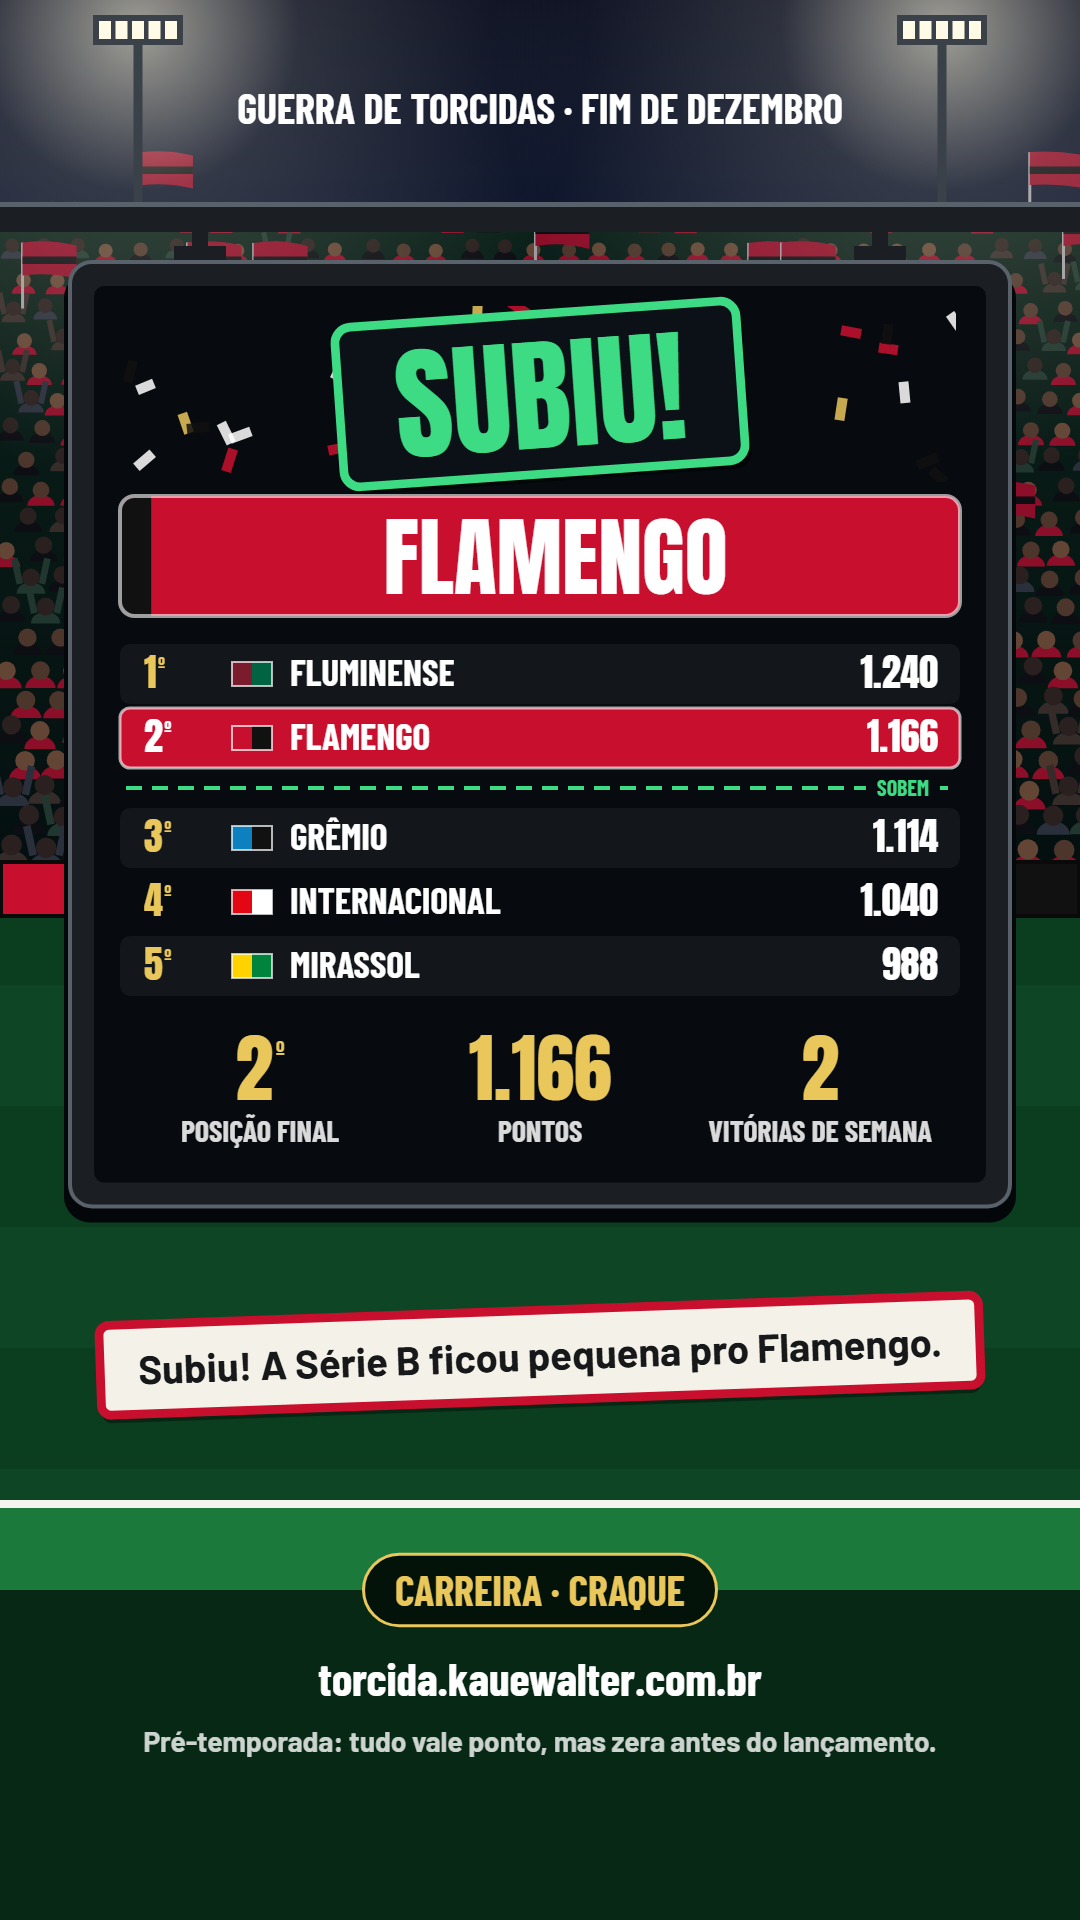
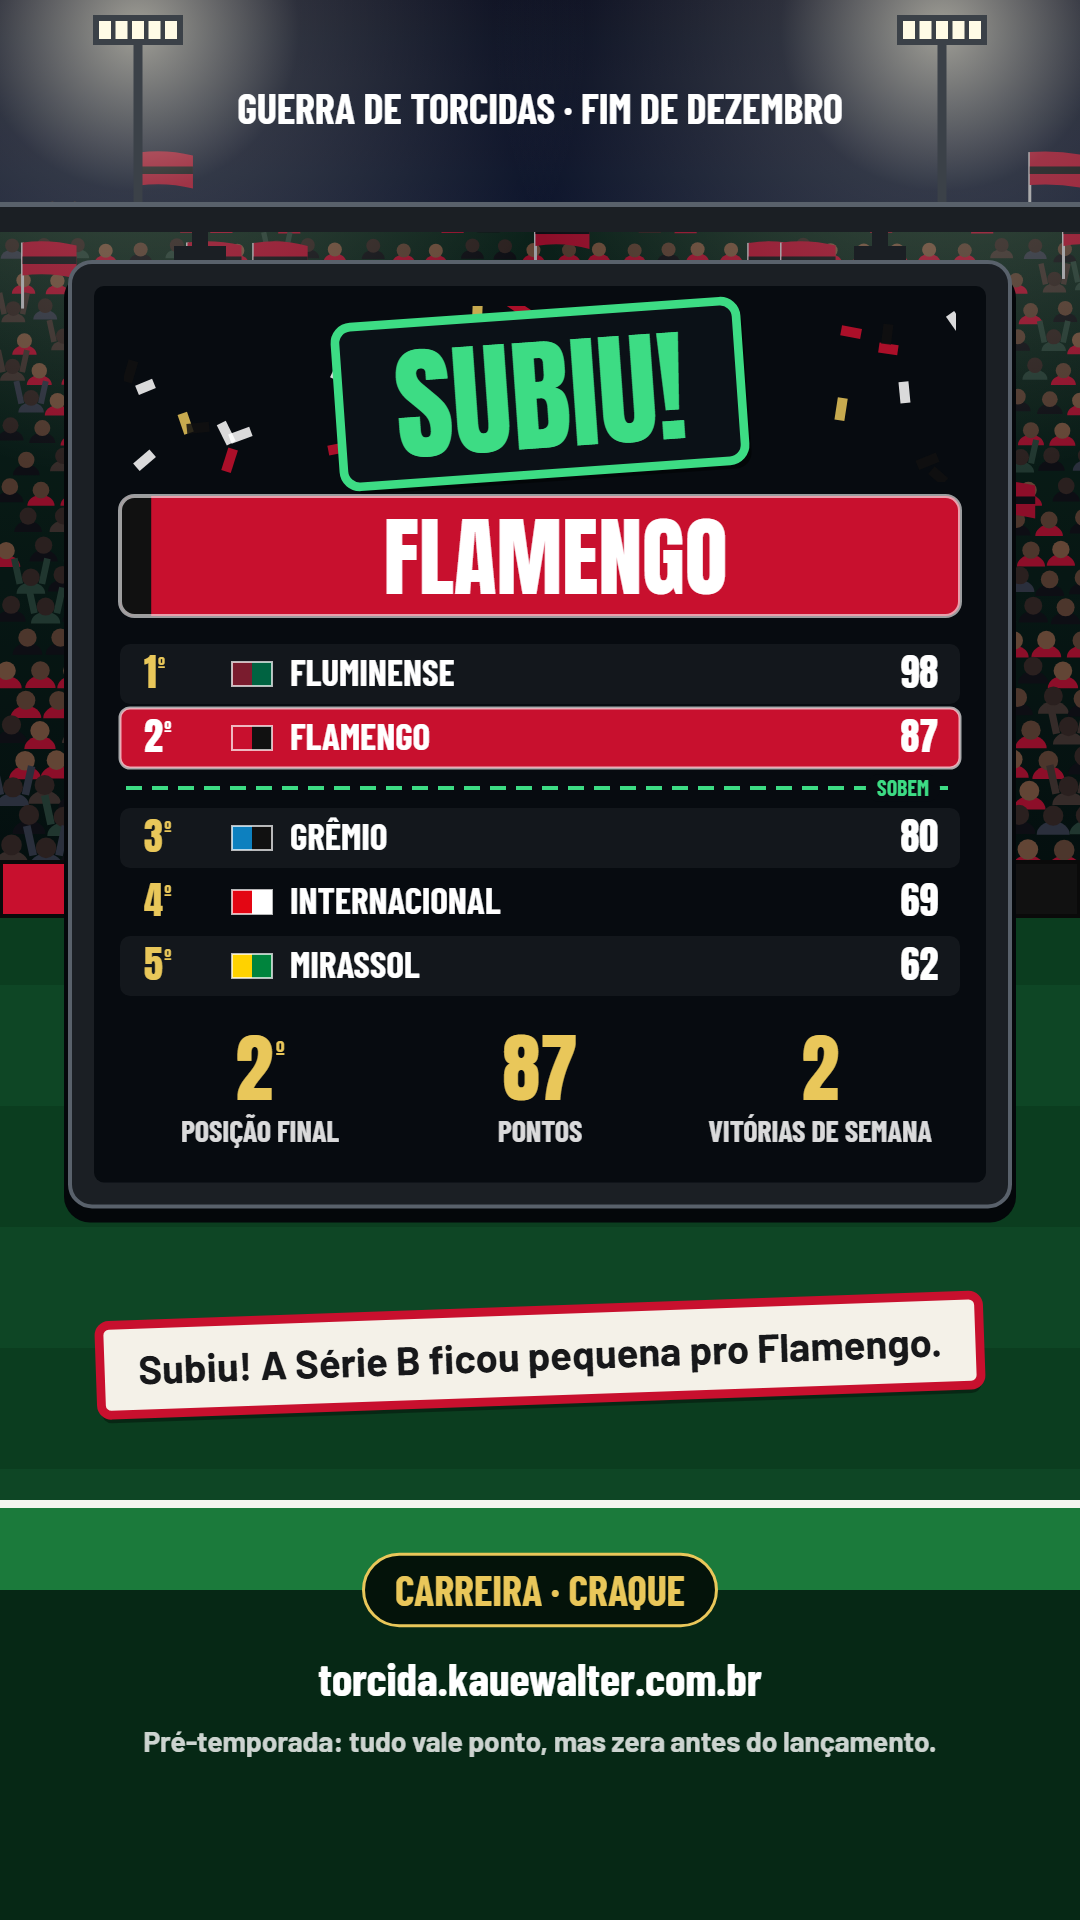
fix: pontos realistas no card falso e docs de como as divisões ficaram nas telas

Changed region(s): [[0.7944, 0.3438, 0.8861, 0.5312], [0.4278, 0.5312, 0.5806, 0.5938]]

diff --git a/src/jogo/cardTemporada.test.ts b/src/jogo/cardTemporada.test.ts
@@ -73,7 +73,7 @@ describe('dados do card de fim de temporada', () => {
     expect(d.tipo).toBe('temporada');
     expect(d.jogo).toBe('FIM DE DEZEMBRO');
     expect(d.destaque).toBe('SUBIU PRA SÉRIE A');
-    expect(d.lance).toBe('O Flamengo terminou em 2º na Série B · 1166 pts · 2 vitórias de semana');
+    expect(d.lance).toBe('O Flamengo terminou em 2º na Série B · 87 pts · 2 vitórias de semana');
     expect(d.link).toBe('torcida.kauewalter.com.br');
   });
 
@@ -168,7 +168,7 @@ describe('plano do card de fim de temporada por estilo', () => {
     expect(ligado.lance).toBe('O Flamengo terminou em 2º na Série B');
     const desligado = plano('placar', SEM_TABELA);
     expect(desligado.temporada?.numeros).toEqual([]);
-    expect(desligado.lance).toContain('1166 pts');
+    expect(desligado.lance).toContain('87 pts');
   });
 
   it('Placar seco e Pôster levam "Teste das divisões" no topo na pré-temporada', () => {

diff --git a/src/dev/temporadaCardFalso.ts b/src/dev/temporadaCardFalso.ts
@@ -51,7 +51,8 @@ export function mesDeAmostra(cenario: CenarioDoMes, time: Time, pre: boolean): {
     time_id: id,
     serie,
     posicao: i + 1,
-    pontos: Math.max(0, 1240 - i * 63 - (i % 2) * 11),
+    // Pontos de verdade num mês: no máximo 5 × 25 = 125.
+    pontos: Math.max(0, 98 - i * (serie === 'unica' ? 4 : 9) - (i % 2) * 2),
     vitorias: i < 3 ? 3 - i : 0,
     ultima_posicao: i + 1,
     posicao_final: i + 1,

diff --git a/docs/jogo.md b/docs/jogo.md
@@ -176,6 +176,8 @@ Uma partida começada antes da virada conta na semana antiga se terminar até 00
     - **Texto de compartilhar** (emoji antigo, link em linha à parte): "⬆ Cruzeiro subiu pra Série A no Guerra de Torcidas! Eu tava na arquibancada." / "🏆 Cruzeiro campeão da temporada no Guerra de Torcidas!" / "⬇ Cruzeiro caiu pra Série B. Em janeiro tem volta." (na queda, nunca a linha da arquibancada). "Eu tava na arquibancada." só para quem somou no mês.
     - **"Somou no mês":** soma da `minha_posicao_semana` das semanas do mês, lida só no toque. O mesmo limite da Galeria: quem trocou de time no meio do mês vê o total de todos os times.
   - **Em desenvolvimento:** `?temporadaFalsa=fim-subiu|fim-caiu|fim-campeao|fim-unica`, e a Home falsa (`?homeFalsa`) mostra o bloco e a placa. Nada vai para o Supabase de produção.
+  - **Ajuste na construção (07/11/2026, aprovar com os prints):** o bloco nasceu com o adesivo do narrador dentro (172 px) e empurrava o "Jogar agora" para baixo da barra em 390×844. Ficou compacto (88 px) e **a frase do mês vai no adesivo do cabo de guerra**: entra no lugar da frase do duelo quando o time é líder, está no acesso ou na zona de queda (ou quando o duelo não tem frase); a virada sobre o rival ("passou"/"foi passado") continua com a frase do duelo. Em 360×740 o "Jogar agora" fica abaixo da dobra (antes do bloco já ficava rente a ela).
+  - **Como está nas telas (07/11/2026; prints em `docs/auditoria/2026-11-06/divisoes/`):** conta e textos em `src/jogo/temporada.ts` (testes em `temporadaDivisoes.test.ts`); frases em `src/narrador/temporada.ts`; o bloco em `src/telas/blocoDivisoes.ts` e a placa em `src/telas/placaTemporada.ts`, os dois por `import()` (a Home leva só o espaço reservado); a placa entra na mesma `<section data-placa-trofeu>` por `mostrarPlacaDaHome`, que tenta a do mês e, sem ela, a "Troféu novo" (`TROFEUS_DA_PLACA_DO_MES` em `src/jogo/galeria.ts`); o mês visto fica em `gdt:prefs.temporadaVista`. O card: `src/jogo/cardTemporadaDados.ts` (puro), `cardTemporada.ts` (Telão), o caso novo em `cardPlacarSeco.ts` e `cardPoster.ts`, e `src/telas/mandarTemporada.ts` / `mandarTemporadaCard.ts` (abre a tela SEU CARD no toque; sem o pedaço, compartilha só o texto). Botão "Card do mês" em `src/telas/temporada.ts`. Bundle inicial: JS de 46,64 para 47,12 kB gzip; os pedaços novos somam ~9 kB gzip, baixados sob demanda. Em dev, também `?cardFalso&tipo=temporada` e `/dev/cards.html?personalizados&so=temporada`.
 
 ### Fechamento da semana (31/10/2026)
 - O servidor grava a classificação de cada semana na tabela `fechamento_semana`, em **duas etapas**:
@@ -1032,6 +1034,8 @@ Guerra de Torcidas (provisório) · Arquibancada · Resenha FC · Rivalzão · B
 - **Desenho:** `desenharCardPersonalizado` passou a ser assíncrona. Com `plano.poster`, carrega `src/jogo/cardPoster.ts` por `import()`; com `plano.busto`, carrega `src/telas/bonecoMontavel.ts` e passa um canvas do busto (200 px no Stories, 104 no Quadrado) a `blocoDoNumero` (`card.ts`) e ao Placar seco. Sem busto, os dois ficam como antes. O Pôster desenha a figura direto no canvas de 1080, sem devicePixelRatio (`desenharFiguraDoCard`, `ALTURA_DA_FIGURA`, `ALTURA_DO_JOELHO`, acrescentados no fim de `bonecoMontavel.ts`), e escolhe a cor do número grande pelo fundo (cor 1, cor 2 ou contorno claro). No build, `cardPoster` é um pedaço separado (2,5 kB gzip) e o `index` não cresceu (51,39 kB).
 - **Tela:** lê o boneco por `lerBoneco()` com limite de 4 s (`bonecoDoServidor`; erro ou demora = sem boneco) junto com os dados do card, antes do primeiro desenho. `OpcoesDoCard.boneco` troca a fonte (dev). Uma leitura vale por 60 s para os cards seguintes (erro não fica guardado). `desenharComAsEscolhas` (Stories do resultado e prévia da medalha) só lê o boneco quando a escolha guardada é o Pôster ou "Meu boneco" está ligado, e espera no máximo 0,8 s, para o compartilhar não perder o gesto do toque no iPhone; passou disso, sai o Telão sem busto. `prepararBonecoDoCard()` começa essa leitura antes do toque; o resultado padrão dos jogos chama ao aparecer (`ligarResultado`). Os nomes dos estilos são montados uma vez (o toque e o foco não se perdem), e cada estilo é desenhado por si: se o pedaço do Pôster ou do boneco não baixar, os outros saem mesmo assim, e o busto some sem derrubar o card.
 - **Em dev:** `?cardFalso` aceita `&estilo=poster`, `&boneco=sem|parado|bracos` e `&comBoneco=1`; `/dev/cards.html?personalizados` mostra o Pôster e as versões com busto. Prints em `docs/auditoria/2026-11-05/card-poster/`.
+
+**Card de fim de temporada (07/11/2026; decisão e detalhes na seção 5, "Telas do resto das divisões"):** tipo `temporada`, com os quadradinhos Frase do narrador, Meu apelido, Nível na Carreira, "Tabela final" (no Telão tira a tabela e deixa os 3 números; no Placar seco, os números só entram com ele ligado), "Link do jogo", as duas ações e Meu boneco. Selo inclinado dourado para campeão, verde para quem sobe, cinza para quem cai e claro para quem fica; na pré-temporada, "TESTE DAS DIVISÕES" dentro do selo (no Placar seco e no Pôster, no topo ou na faixa). Papel picado só nos destinos de festa.
 
 **Card do troféu (06/11/2026, decidido pelo Kauê numa conversa Opus; abre do "Mandar no grupo" da ficha da Galeria e da placa "Troféu novo" da Home):**
 - **Quadradinhos do tipo `trofeu`:** Frase do narrador, Meu apelido, Nível na Carreira, "Números da semana" (liga e desliga os 3 números da ficha; no troféu de mês, "Números do mês"), "Link do jogo", as duas ações (Sortear outra frase, Escrever minha frase) e Meu boneco. O jogo do card é "Galeria de Troféus".
